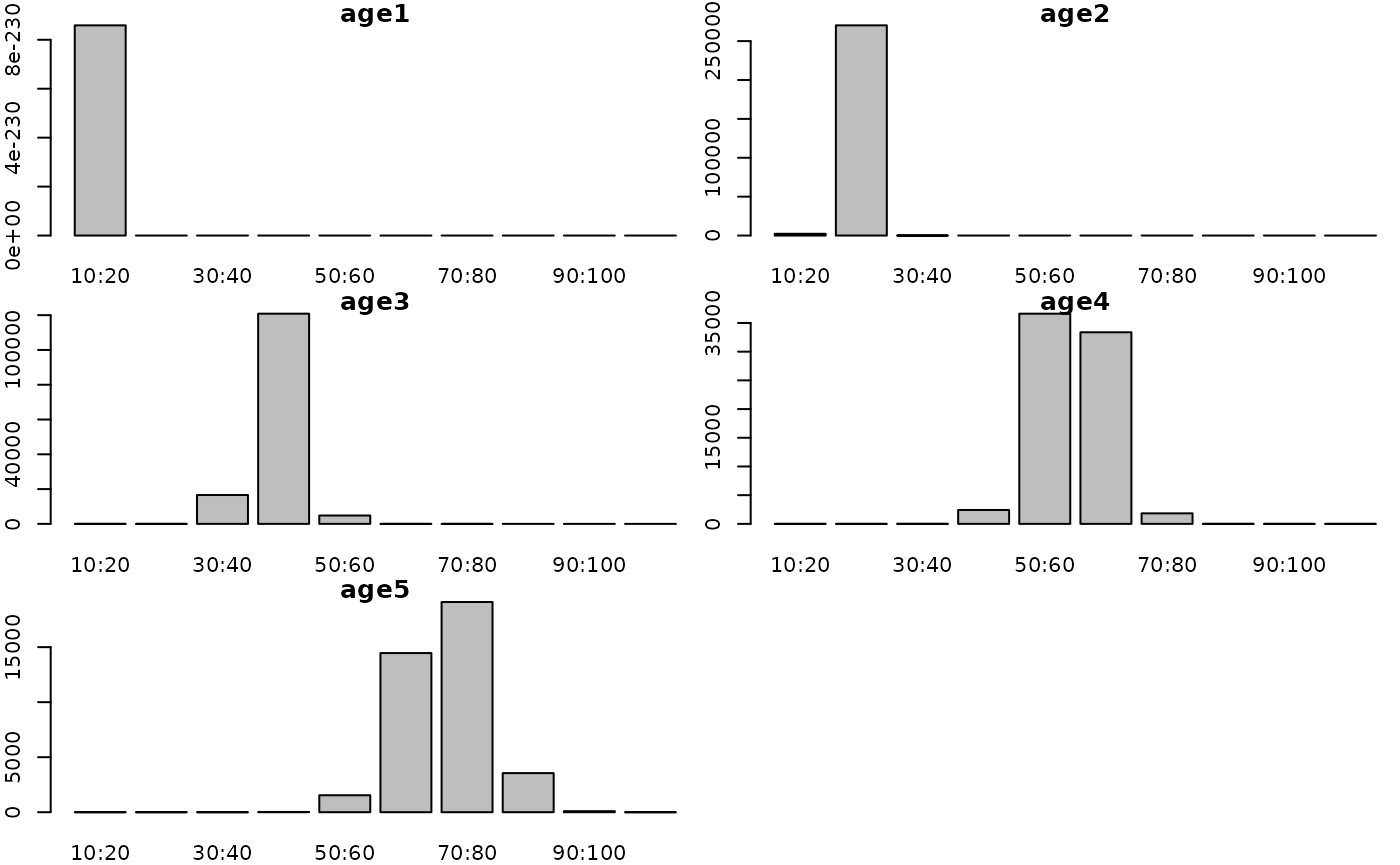
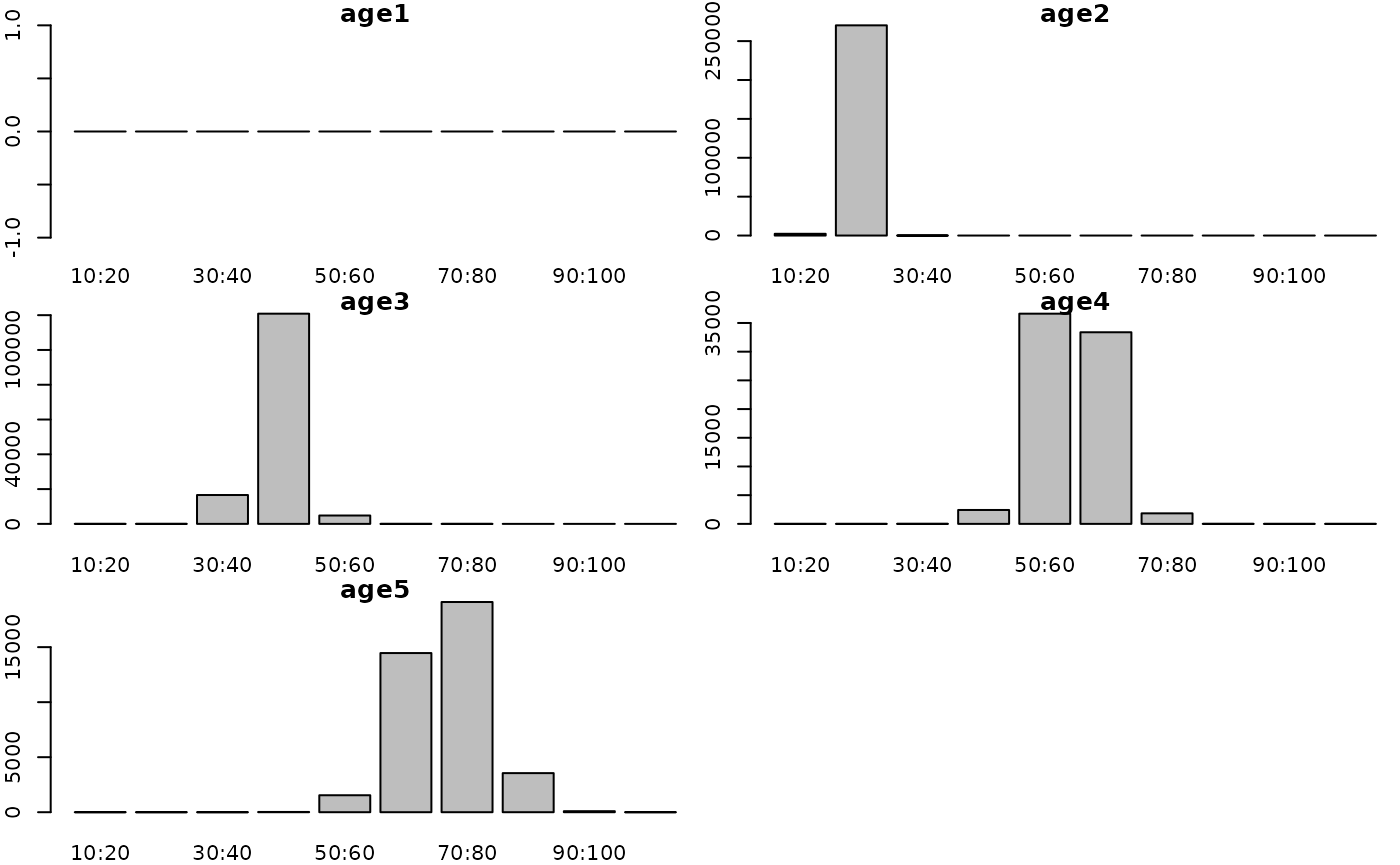
deploy: 5fa840f5f432c61515d85f0f76115fd9eef0f284

diff --git a/master/reference/step.html b/master/reference/step.html
@@ -231,13 +231,13 @@
 <span class="r-in"><span><span class="va">prey_stock</span> <span class="op">&lt;-</span> <span class="fu"><a href="stock.html">g3_stock</a></span><span class="op">(</span><span class="st">'herring'</span>, <span class="fl">1</span><span class="op">:</span><span class="fl">3</span><span class="op">)</span> <span class="op">%&gt;%</span> <span class="fu"><a href="stock_age.html">g3s_age</a></span><span class="op">(</span><span class="fl">1</span>,<span class="fl">3</span><span class="op">)</span></span></span>
 <span class="r-in"><span><span class="fu">g3_step</span><span class="op">(</span><span class="op">~</span><span class="fu">debug_trace</span><span class="op">(</span><span class="st">"Zero "</span>, <span class="va">stock</span>, <span class="st">"-"</span>, <span class="va">prey_stock</span>, <span class="st">" biomass-consuming counter"</span><span class="op">)</span><span class="op">)</span></span></span>
 <span class="r-out co"><span class="r-pr">#&gt;</span> ~debug_trace("Zero halibut-herring biomass-consuming counter")</span>
-<span class="r-out co"><span class="r-pr">#&gt;</span> &lt;environment: 0x55765df14640&gt;</span>
+<span class="r-out co"><span class="r-pr">#&gt;</span> &lt;environment: 0x55c7209af378&gt;</span>
 <span class="r-in"><span></span></span>
 <span class="r-in"><span><span class="co">### stock_assert</span></span></span>
 <span class="r-in"><span><span class="va">stock</span> <span class="op">&lt;-</span> <span class="fu"><a href="stock.html">g3_stock</a></span><span class="op">(</span><span class="st">'halibut'</span>, <span class="fl">1</span><span class="op">:</span><span class="fl">10</span><span class="op">)</span> <span class="op">%&gt;%</span> <span class="fu"><a href="stock_age.html">g3s_age</a></span><span class="op">(</span><span class="fl">1</span>,<span class="fl">10</span><span class="op">)</span></span></span>
 <span class="r-in"><span><span class="fu">g3_step</span><span class="op">(</span><span class="op">~</span><span class="fu">stock_assert</span><span class="op">(</span><span class="fu">stock_with</span><span class="op">(</span><span class="va">stock</span>, <span class="fu"><a href="https://rdrr.io/r/base/all.html" class="external-link">all</a></span><span class="op">(</span><span class="fu"><a href="https://rdrr.io/r/base/is.finite.html" class="external-link">is.finite</a></span><span class="op">(</span><span class="va">stock__num</span><span class="op">)</span><span class="op">)</span><span class="op">)</span>, <span class="va">stock</span>, <span class="st">"__num became NaN/Inf"</span><span class="op">)</span><span class="op">)</span></span></span>
 <span class="r-out co"><span class="r-pr">#&gt;</span> ~assert_msg(~all(is.finite(halibut__num)), "halibut__num became NaN/Inf")</span>
-<span class="r-out co"><span class="r-pr">#&gt;</span> &lt;environment: 0x55765df14640&gt;</span>
+<span class="r-out co"><span class="r-pr">#&gt;</span> &lt;environment: 0x55c7209af378&gt;</span>
 <span class="r-in"><span></span></span>
 <span class="r-in"><span><span class="co">### stock_reshape</span></span></span>
 <span class="r-in"><span><span class="va">s</span> <span class="op">&lt;-</span> <span class="fu"><a href="stock.html">g3_stock</a></span><span class="op">(</span><span class="st">'s'</span>, <span class="fu"><a href="https://rdrr.io/r/base/seq.html" class="external-link">seq</a></span><span class="op">(</span><span class="fl">3</span>, <span class="fl">21</span>, <span class="fl">3</span><span class="op">)</span><span class="op">)</span></span></span>
@@ -254,48 +254,48 @@
 <span class="r-out co"><span class="r-pr">#&gt;</span>     for (age in seq(halibut__minage, halibut__maxage, by = 1)) g3_with(`:=`(halibut__age_idx, </span>
 <span class="r-out co"><span class="r-pr">#&gt;</span>         g3_idx(age - halibut__minage + 1L)), x &lt;- x + halibut__num[, </span>
 <span class="r-out co"><span class="r-pr">#&gt;</span>         halibut__age_idx, halibut__area_idx]))</span>
-<span class="r-out co"><span class="r-pr">#&gt;</span> &lt;environment: 0x55765df14640&gt;</span>
+<span class="r-out co"><span class="r-pr">#&gt;</span> &lt;environment: 0x55c7209af378&gt;</span>
 <span class="r-in"><span><span class="fu">g3_step</span><span class="op">(</span><span class="op">~</span><span class="fu">stock_ss</span><span class="op">(</span><span class="va">stock__num</span>, area <span class="op">=</span> <span class="fl">5</span><span class="op">)</span><span class="op">)</span></span></span>
 <span class="r-out co"><span class="r-pr">#&gt;</span> ~stock__num[, stock__age_idx, 5]</span>
-<span class="r-out co"><span class="r-pr">#&gt;</span> &lt;environment: 0x55765df14640&gt;</span>
+<span class="r-out co"><span class="r-pr">#&gt;</span> &lt;environment: 0x55c7209af378&gt;</span>
 <span class="r-in"><span><span class="co"># Lengthgroups for age_idx + 1</span></span></span>
 <span class="r-in"><span><span class="fu">g3_step</span><span class="op">(</span><span class="op">~</span><span class="fu">stock_ss</span><span class="op">(</span><span class="va">stock__num</span>, age <span class="op">=</span> <span class="va">default</span> <span class="op">+</span> <span class="fl">1</span><span class="op">)</span><span class="op">)</span></span></span>
 <span class="r-out co"><span class="r-pr">#&gt;</span> ~stock__num[, stock__age_idx + 1, stock__area_idx]</span>
-<span class="r-out co"><span class="r-pr">#&gt;</span> &lt;environment: 0x55765df14640&gt;</span>
+<span class="r-out co"><span class="r-pr">#&gt;</span> &lt;environment: 0x55c7209af378&gt;</span>
 <span class="r-in"><span><span class="co"># Vector for the entirety of the "next" area</span></span></span>
 <span class="r-in"><span><span class="fu">g3_step</span><span class="op">(</span><span class="op">~</span><span class="fu">stock_ss</span><span class="op">(</span><span class="va">stock__num</span>, area <span class="op">=</span> <span class="va">default</span> <span class="op">+</span> <span class="fl">1</span>, vec <span class="op">=</span> <span class="va">area</span><span class="op">)</span><span class="op">)</span></span></span>
 <span class="r-out co"><span class="r-pr">#&gt;</span> ~stock__num[, , stock__area_idx + 1]</span>
-<span class="r-out co"><span class="r-pr">#&gt;</span> &lt;environment: 0x55765df14640&gt;</span>
+<span class="r-out co"><span class="r-pr">#&gt;</span> &lt;environment: 0x55c7209af378&gt;</span>
 <span class="r-in"><span><span class="fu">g3_step</span><span class="op">(</span><span class="op">~</span><span class="fu">stock_ss</span><span class="op">(</span><span class="va">stock__num</span>, area <span class="op">=</span> , age <span class="op">=</span> <span class="va">j</span><span class="op">)</span><span class="op">)</span></span></span>
 <span class="r-out co"><span class="r-pr">#&gt;</span> ~stock__num[, j, ]</span>
-<span class="r-out co"><span class="r-pr">#&gt;</span> &lt;environment: 0x55765df14640&gt;</span>
+<span class="r-out co"><span class="r-pr">#&gt;</span> &lt;environment: 0x55c7209af378&gt;</span>
 <span class="r-in"><span></span></span>
 <span class="r-in"><span><span class="co">### stock_ssinv</span></span></span>
 <span class="r-in"><span><span class="va">stock</span> <span class="op">&lt;-</span> <span class="fu"><a href="stock.html">g3_stock</a></span><span class="op">(</span><span class="st">'halibut'</span>, <span class="fl">1</span><span class="op">:</span><span class="fl">10</span><span class="op">)</span> <span class="op">%&gt;%</span> <span class="fu"><a href="stock_age.html">g3s_age</a></span><span class="op">(</span><span class="fl">1</span>,<span class="fl">10</span><span class="op">)</span> <span class="op">%&gt;%</span> <span class="fu"><a href="stock_areas.html">g3s_livesonareas</a></span><span class="op">(</span><span class="fl">1</span><span class="op">)</span></span></span>
 <span class="r-in"><span><span class="fu">g3_step</span><span class="op">(</span><span class="op">~</span><span class="fu">g3_step</span><span class="op">(</span><span class="op">~</span><span class="fu">stock_ssinv</span><span class="op">(</span><span class="va">stock</span>, <span class="st">'age'</span><span class="op">)</span><span class="op">)</span><span class="op">)</span></span></span>
 <span class="r-out co"><span class="r-pr">#&gt;</span> ~g3_step(~stock[, stock__age_idx, ])</span>
-<span class="r-out co"><span class="r-pr">#&gt;</span> &lt;environment: 0x55765df14640&gt;</span>
+<span class="r-out co"><span class="r-pr">#&gt;</span> &lt;environment: 0x55c7209af378&gt;</span>
 <span class="r-in"><span><span class="fu">g3_step</span><span class="op">(</span><span class="op">~</span><span class="fu">g3_step</span><span class="op">(</span><span class="op">~</span><span class="fu">stock_ssinv</span><span class="op">(</span><span class="va">stock</span>, <span class="st">'area'</span><span class="op">)</span><span class="op">)</span><span class="op">)</span></span></span>
 <span class="r-out co"><span class="r-pr">#&gt;</span> ~g3_step(~stock[, , stock__area_idx])</span>
-<span class="r-out co"><span class="r-pr">#&gt;</span> &lt;environment: 0x55765df14640&gt;</span>
+<span class="r-out co"><span class="r-pr">#&gt;</span> &lt;environment: 0x55c7209af378&gt;</span>
 <span class="r-in"><span></span></span>
 <span class="r-in"><span><span class="co">### stock_switch</span></span></span>
 <span class="r-in"><span><span class="va">stock</span> <span class="op">&lt;-</span> <span class="fu"><a href="stock.html">g3_stock</a></span><span class="op">(</span><span class="st">'halibut'</span>, <span class="fl">1</span><span class="op">:</span><span class="fl">10</span><span class="op">)</span> ; <span class="va">fleet_stock</span> <span class="op">&lt;-</span> <span class="fu"><a href="stock.html">g3_fleet</a></span><span class="op">(</span><span class="st">'igfs'</span><span class="op">)</span></span></span>
 <span class="r-in"><span><span class="fu">g3_step</span><span class="op">(</span><span class="op">~</span><span class="fu">stock_switch</span><span class="op">(</span><span class="va">stock</span>, halibut <span class="op">=</span> <span class="fl">2</span>, herring <span class="op">=</span> <span class="fl">3</span>, <span class="op">-</span><span class="fl">1</span><span class="op">)</span><span class="op">)</span></span></span>
 <span class="r-out co"><span class="r-pr">#&gt;</span> ~2</span>
-<span class="r-out co"><span class="r-pr">#&gt;</span> &lt;environment: 0x55765df14640&gt;</span>
+<span class="r-out co"><span class="r-pr">#&gt;</span> &lt;environment: 0x55c7209af378&gt;</span>
 <span class="r-in"><span><span class="fu">g3_step</span><span class="op">(</span><span class="op">~</span><span class="fu">stock_switch</span><span class="op">(</span><span class="va">fleet_stock</span>, halibut <span class="op">=</span> <span class="fl">2</span>, herring <span class="op">=</span> <span class="fl">3</span>, <span class="op">-</span><span class="fl">1</span><span class="op">)</span><span class="op">)</span></span></span>
 <span class="r-out co"><span class="r-pr">#&gt;</span> ~(-1)</span>
-<span class="r-out co"><span class="r-pr">#&gt;</span> &lt;environment: 0x55765df14640&gt;</span>
+<span class="r-out co"><span class="r-pr">#&gt;</span> &lt;environment: 0x55c7209af378&gt;</span>
 <span class="r-in"><span><span class="fu">g3_step</span><span class="op">(</span><span class="op">~</span><span class="fu">stock_switch</span><span class="op">(</span><span class="va">stock</span>, halibut <span class="op">=</span> <span class="va">stock__midlen</span>, <span class="op">-</span><span class="fl">1</span><span class="op">)</span><span class="op">)</span></span></span>
 <span class="r-out co"><span class="r-pr">#&gt;</span> ~halibut__midlen</span>
-<span class="r-out co"><span class="r-pr">#&gt;</span> &lt;environment: 0x55765df14640&gt;</span>
+<span class="r-out co"><span class="r-pr">#&gt;</span> &lt;environment: 0x55c7209af378&gt;</span>
 <span class="r-in"><span></span></span>
 <span class="r-in"><span><span class="co">### stock_with</span></span></span>
 <span class="r-in"><span><span class="va">stock</span> <span class="op">&lt;-</span> <span class="fu"><a href="stock.html">g3_stock</a></span><span class="op">(</span><span class="st">'halibut'</span>, <span class="fl">1</span><span class="op">:</span><span class="fl">10</span><span class="op">)</span></span></span>
 <span class="r-in"><span><span class="fu">g3_step</span><span class="op">(</span><span class="op">~</span><span class="fu">stock_with</span><span class="op">(</span><span class="va">stock</span>, <span class="fu"><a href="https://rdrr.io/r/base/sum.html" class="external-link">sum</a></span><span class="op">(</span><span class="va">stock__num</span><span class="op">)</span><span class="op">)</span><span class="op">)</span></span></span>
 <span class="r-out co"><span class="r-pr">#&gt;</span> ~sum(halibut__num)</span>
-<span class="r-out co"><span class="r-pr">#&gt;</span> &lt;environment: 0x55765df14640&gt;</span>
+<span class="r-out co"><span class="r-pr">#&gt;</span> &lt;environment: 0x55c7209af378&gt;</span>
 <span class="r-in"><span></span></span>
 <span class="r-in"><span><span class="co">### stock_iterate</span></span></span>
 <span class="r-in"><span><span class="va">stock</span> <span class="op">&lt;-</span> <span class="fu"><a href="stock.html">g3_stock</a></span><span class="op">(</span><span class="st">'halibut'</span>, <span class="fl">1</span><span class="op">:</span><span class="fl">10</span><span class="op">)</span> <span class="op">%&gt;%</span> <span class="fu"><a href="stock_age.html">g3s_age</a></span><span class="op">(</span><span class="fl">1</span>,<span class="fl">10</span><span class="op">)</span></span></span>
@@ -303,7 +303,7 @@
 <span class="r-out co"><span class="r-pr">#&gt;</span> ~for (age in seq(halibut__minage, halibut__maxage, by = 1)) g3_with(`:=`(halibut__age_idx, </span>
 <span class="r-out co"><span class="r-pr">#&gt;</span>     g3_idx(age - halibut__minage + 1L)), x &lt;- x + halibut__num[, </span>
 <span class="r-out co"><span class="r-pr">#&gt;</span>     halibut__age_idx])</span>
-<span class="r-out co"><span class="r-pr">#&gt;</span> &lt;environment: 0x55765df14640&gt;</span>
+<span class="r-out co"><span class="r-pr">#&gt;</span> &lt;environment: 0x55c7209af378&gt;</span>
 <span class="r-in"><span></span></span>
 <span class="r-in"><span><span class="co">### stock_intersect</span></span></span>
 <span class="r-in"><span><span class="va">stock</span> <span class="op">&lt;-</span> <span class="fu"><a href="stock.html">g3_stock</a></span><span class="op">(</span><span class="st">'halibut'</span>, <span class="fl">1</span><span class="op">:</span><span class="fl">10</span><span class="op">)</span> <span class="op">%&gt;%</span> <span class="fu"><a href="stock_age.html">g3s_age</a></span><span class="op">(</span><span class="fl">1</span>,<span class="fl">10</span><span class="op">)</span></span></span>
@@ -316,7 +316,7 @@
 <span class="r-out co"><span class="r-pr">#&gt;</span>     g3_idx(age - halibut__minage + 1L)), g3_with(`:=`(herring__age_idx, </span>
 <span class="r-out co"><span class="r-pr">#&gt;</span>     g3_idx(age - herring__minage + 1L)), x &lt;- x + halibut__num[, </span>
 <span class="r-out co"><span class="r-pr">#&gt;</span>     halibut__age_idx] + herring__num[, herring__age_idx]))</span>
-<span class="r-out co"><span class="r-pr">#&gt;</span> &lt;environment: 0x55765df14640&gt;</span>
+<span class="r-out co"><span class="r-pr">#&gt;</span> &lt;environment: 0x55c7209af378&gt;</span>
 <span class="r-in"><span></span></span>
 <span class="r-in"><span><span class="co">### stock_interact</span></span></span>
 <span class="r-in"><span><span class="va">stock</span> <span class="op">&lt;-</span> <span class="fu"><a href="stock.html">g3_stock</a></span><span class="op">(</span><span class="st">'halibut'</span>, <span class="fl">1</span><span class="op">:</span><span class="fl">10</span><span class="op">)</span> <span class="op">%&gt;%</span> <span class="fu"><a href="stock_age.html">g3s_age</a></span><span class="op">(</span><span class="fl">1</span>,<span class="fl">10</span><span class="op">)</span></span></span>
@@ -329,7 +329,7 @@
 <span class="r-out co"><span class="r-pr">#&gt;</span>     herring__maxage, by = 1)) g3_with(`:=`(herring__age_idx, </span>
 <span class="r-out co"><span class="r-pr">#&gt;</span>     g3_idx(prey_age - herring__minage + 1L)), x &lt;- x + halibut__num[, </span>
 <span class="r-out co"><span class="r-pr">#&gt;</span>     halibut__age_idx] + herring__num[, herring__age_idx]))</span>
-<span class="r-out co"><span class="r-pr">#&gt;</span> &lt;environment: 0x55765df14640&gt;</span>
+<span class="r-out co"><span class="r-pr">#&gt;</span> &lt;environment: 0x55c7209af378&gt;</span>
 </code></pre></div>
     </div>
   </div>

diff --git a/master/articles/model-structure.html b/master/articles/model-structure.html
@@ -141,7 +141,7 @@ make some:</p>
 <div class="sourceCode" id="cb2"><pre class="downlit sourceCode r">
 <code class="sourceCode R"><span><span class="fu"><a href="https://rdrr.io/r/utils/str.html" class="external-link">str</a></span><span class="op">(</span><span class="va">f</span><span class="op">)</span></span></code></pre></div>
 <pre><code><span><span class="co">## Class 'formula'  language ~cows + pigs</span></span>
-<span><span class="co">##   ..- attr(*, ".Environment")=&lt;environment: 0x5609ccf8de48&gt;</span></span></code></pre>
+<span><span class="co">##   ..- attr(*, ".Environment")=&lt;environment: 0x56311f570ae0&gt;</span></span></code></pre>
 <p>We can look into this environment, and see the values that got set
 for cows &amp; pigs:</p>
 <div class="sourceCode" id="cb4"><pre class="downlit sourceCode r">
@@ -178,8 +178,8 @@ an R function:</p>
 <span><span class="co">##         cows + pigs</span></span>
 <span><span class="co">##     }</span></span>
 <span><span class="co">## }</span></span>
-<span><span class="co">## &lt;bytecode: 0x5609ce731af0&gt;</span></span>
-<span><span class="co">## &lt;environment: 0x5609ce4d1bc8&gt;</span></span></code></pre>
+<span><span class="co">## &lt;bytecode: 0x563120d14798&gt;</span></span>
+<span><span class="co">## &lt;environment: 0x563120ab2950&gt;</span></span></code></pre>
 <p>…or a TMB template:</p>
 <div class="sourceCode" id="cb10"><pre class="downlit sourceCode r">
 <code class="sourceCode R"><span><span class="fu"><a href="../reference/run_tmb.html">g3_to_tmb</a></span><span class="op">(</span><span class="fu"><a href="https://rdrr.io/r/base/list.html" class="external-link">list</a></span><span class="op">(</span><span class="va">f</span><span class="op">)</span><span class="op">)</span></span></code></pre></div>
@@ -247,14 +247,14 @@ reached. For example:</p>
 <span><span class="co">##     cur_step_size &lt;- step_lengths[[cur_step]]/12</span></span>
 <span><span class="co">##     cur_step_final &lt;- cur_step == step_count</span></span>
 <span><span class="co">## }</span></span>
-<span><span class="co">## &lt;environment: 0x5609cb674788&gt;</span></span>
+<span><span class="co">## &lt;environment: 0x56311dc55dc0&gt;</span></span>
 <span><span class="co">## </span></span>
 <span><span class="co">## $`001`</span></span>
 <span><span class="co">## ~{</span></span>
 <span><span class="co">##     if (cur_time &gt; total_steps) </span></span>
 <span><span class="co">##         return(nll)</span></span>
 <span><span class="co">## }</span></span>
-<span><span class="co">## &lt;environment: 0x5609c97f9190&gt;</span></span></code></pre>
+<span><span class="co">## &lt;environment: 0x56311bdda5b8&gt;</span></span></code></pre>
 <p>Like in the example above, the definitions are part of the formula’s
 environment, and if we compile it we see our years ending up in the
 code.</p>
@@ -309,8 +309,8 @@ code.</p>
 <span><span class="co">##         }</span></span>
 <span><span class="co">##     }</span></span>
 <span><span class="co">## }</span></span>
-<span><span class="co">## &lt;bytecode: 0x5609cc0ad6e0&gt;</span></span>
-<span><span class="co">## &lt;environment: 0x5609ce7dc348&gt;</span></span></code></pre>
+<span><span class="co">## &lt;bytecode: 0x56311e68eec8&gt;</span></span>
+<span><span class="co">## &lt;environment: 0x563120dbd0d0&gt;</span></span></code></pre>
 <p>In this case our years have been hard-coded, but their definitions
 could themselves be formula and the end result will be added to the
 model. For example:</p>
@@ -365,8 +365,8 @@ model. For example:</p>
 <span><span class="co">##         }</span></span>
 <span><span class="co">##     }</span></span>
 <span><span class="co">## }</span></span>
-<span><span class="co">## &lt;bytecode: 0x5609ce78dba8&gt;</span></span>
-<span><span class="co">## &lt;environment: 0x5609cc01e5b8&gt;</span></span></code></pre>
+<span><span class="co">## &lt;bytecode: 0x563120d6f420&gt;</span></span>
+<span><span class="co">## &lt;environment: 0x56311e5ffee0&gt;</span></span></code></pre>
 </div>
 <div class="section level2">
 <h2 id="stocks">Stocks<a class="anchor" aria-label="anchor" href="#stocks"></a>
@@ -590,8 +590,8 @@ example:</p>
 <span><span class="co">##         }</span></span>
 <span><span class="co">##     }</span></span>
 <span><span class="co">## }</span></span>
-<span><span class="co">## &lt;bytecode: 0x5609c94c0570&gt;</span></span>
-<span><span class="co">## &lt;environment: 0x5609cbf7a670&gt;</span></span></code></pre>
+<span><span class="co">## &lt;bytecode: 0x56311baa0ea8&gt;</span></span>
+<span><span class="co">## &lt;environment: 0x56311e559900&gt;</span></span></code></pre>
 <p>…you can see our provided formula have been used to calculate
 <code>ling_imm__growth_l</code> and <code>ling_imm__growth_w</code>, and
 <code>age</code> and <code>area</code> are available to us thanks to the
@@ -757,8 +757,8 @@ definitions into the code where appropriate. For example:</p>
 <span><span class="co">##         }</span></span>
 <span><span class="co">##     }</span></span>
 <span><span class="co">## }</span></span>
-<span><span class="co">## &lt;bytecode: 0x5609cc7d5540&gt;</span></span>
-<span><span class="co">## &lt;environment: 0x5609cde5b568&gt;</span></span></code></pre>
+<span><span class="co">## &lt;bytecode: 0x56311edb7058&gt;</span></span>
+<span><span class="co">## &lt;environment: 0x56312043d000&gt;</span></span></code></pre>
 <p>Note that <code>custom_delta_l</code> is recalculated every loop,
 since it uses <code>area</code>, whereas <code>custom_delta_w</code> is
 calculated once for the step.</p>

diff --git a/master/reference/stock_areas.html b/master/reference/stock_areas.html
@@ -163,7 +163,7 @@
 <span class="r-out co"><span class="r-pr">#&gt;</span>     debug_trace("Clear name migration matrix")</span>
 <span class="r-out co"><span class="r-pr">#&gt;</span>     name__migratematrix[] &lt;- NaN</span>
 <span class="r-out co"><span class="r-pr">#&gt;</span> }</span>
-<span class="r-out co"><span class="r-pr">#&gt;</span> &lt;environment: 0x55765a3f8970&gt;</span>
+<span class="r-out co"><span class="r-pr">#&gt;</span> &lt;environment: 0x55c725d1c2d0&gt;</span>
 <span class="r-out co"><span class="r-pr">#&gt;</span> </span>
 <span class="r-out co"><span class="r-pr">#&gt;</span> $`002:name                :002:f43e386b07dca64199ee`</span>
 <span class="r-out co"><span class="r-pr">#&gt;</span> ~{</span>
@@ -207,7 +207,7 @@
 <span class="r-out co"><span class="r-pr">#&gt;</span>     name__num &lt;- name__postmigratenum</span>
 <span class="r-out co"><span class="r-pr">#&gt;</span>     name__wgt &lt;- name__postmigratewgt</span>
 <span class="r-out co"><span class="r-pr">#&gt;</span> }</span>
-<span class="r-out co"><span class="r-pr">#&gt;</span> &lt;environment: 0x55765c971478&gt;</span>
+<span class="r-out co"><span class="r-pr">#&gt;</span> &lt;environment: 0x55c71e70e1b8&gt;</span>
 <span class="r-out co"><span class="r-pr">#&gt;</span> </span>
 <span class="r-in"><span></span></span>
 <span class="r-in"><span><span class="co"># Use stock_instance to see what the array would look like</span></span></span>

diff --git a/master/reference/action_renewal.html b/master/reference/action_renewal.html
@@ -381,7 +381,7 @@
 </div><p></p><div class="section">
 <h3 id="g-a-initialconditions-normalparam-g-a-renewal-normalparam-g-a-otherfood-normalparam">g3a_initialconditions_normalparam / g3a_renewal_normalparam / g3a_otherfood_normalparam<a class="anchor" aria-label="anchor" href="#g-a-initialconditions-normalparam-g-a-renewal-normalparam-g-a-otherfood-normalparam"></a></h3>
 <p>As g3a_initialconditions / g3a_renewal, but the following formulae are used to calculate num/wgt:</p>
-<p>$$n = e^{-(\frac{L - \mu}{\sigma})^2 / 2}$$
+<p>$$n = {dnorm}(L, \mu, \sigma)$$
     $$N = F 10000 \frac{n}{\sum n}$$
     $$W = \alpha L^{\beta}$$</p><dl><dt>\(L\)</dt>
 <dd><p>Midlength of length groups for current area/age/...</p></dd>

diff --git a/master/articles/introduction-single-stock.html b/master/articles/introduction-single-stock.html
@@ -286,8 +286,8 @@ will count years &amp; steps:</p>
         }
     }
 }
-&lt;bytecode: 0x55d4e6c63c38&gt;
-&lt;environment: 0x55d4e813fbf0&gt;</code></pre>
+&lt;bytecode: 0x5625688dccf0&gt;
+&lt;environment: 0x562569db8bd8&gt;</code></pre>
 <div class="sourceCode" id="cb8"><pre class="downlit sourceCode r">
 <code class="sourceCode R"><span><span class="fu"><a href="../reference/run_tmb.html">g3_to_tmb</a></span><span class="op">(</span><span class="va">actions_time</span><span class="op">)</span></span></code></pre></div>
 <pre><code>#include &lt;TMB.hpp&gt;
